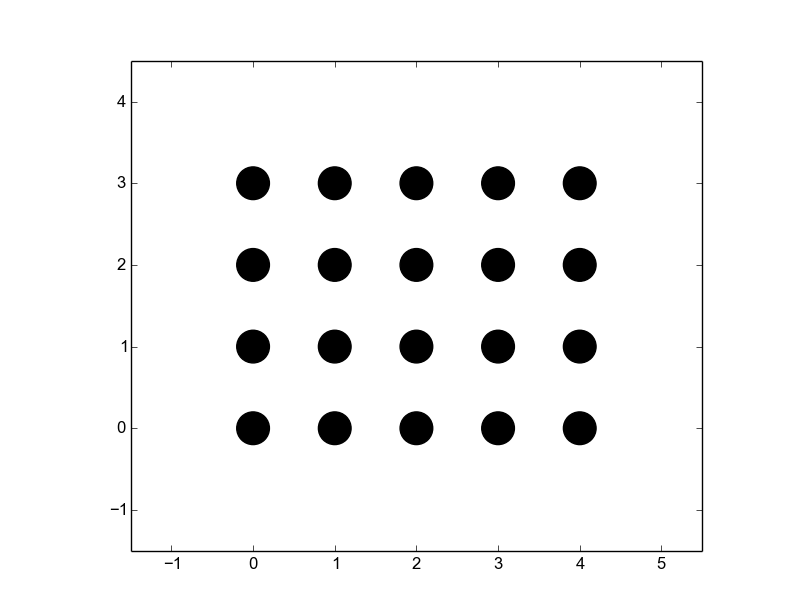
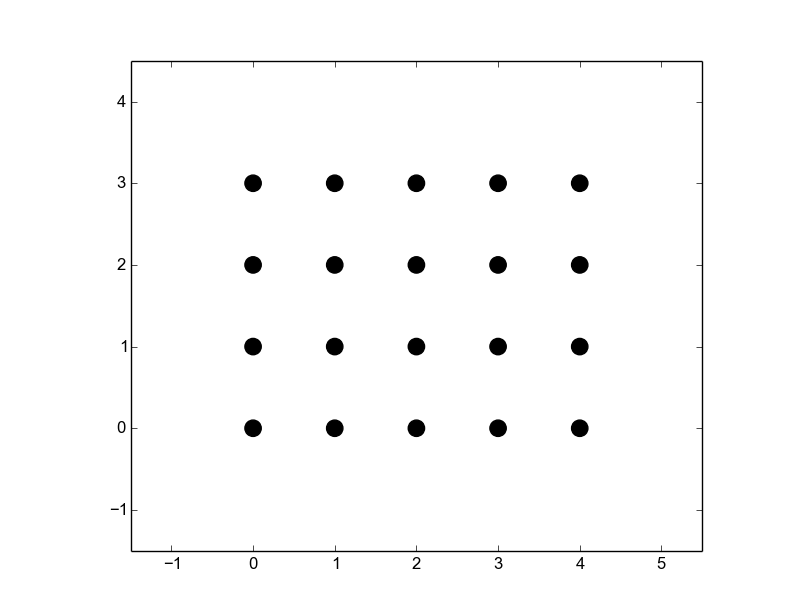
some more processing

diff --git a/src/calib_proc/calib_proc_node.cpp b/src/calib_proc/calib_proc_node.cpp
@@ -36,39 +36,55 @@ void CalibProcNode::ConfigCb(CalibProcDynConfig &config, int level) {
   if (!(config.thresh_window % 2)) {
     config.thresh_window += 1;
   }
+  if (config.min_area > config.max_area) {
+    config.max_area = config.min_area + 1;
+  }
   config_ = config;
 }
 
 void CalibProcNode::ImageCb(const sensor_msgs::ImageConstPtr &image_msg) {
   cv::Mat image = cv_bridge::toCvCopy(image_msg, image_msg->encoding)->image;
-  //  cv::imshow("image", image);
 
   cv::Mat inverted;
   cv::bitwise_not(image, inverted);
-  //  cv::imshow("inverted", inverted);
 
-  /*
+  // Threshold
   cv::Mat thresh;
   cv::adaptiveThreshold(image, thresh, 255, config_.thresh_type,
                         cv::THRESH_BINARY, config_.thresh_window, 0);
   cv::imshow("thresh", thresh);
-  */
 
-  /*
-   std::vector<std::vector<cv::Point>> contours;
-   cv::findContours(raw, contours, CV_RETR_EXTERNAL, CV_CHAIN_APPROX_NONE);
+  // Gaussian blur
+  cv::Mat gauss;
+  cv::GaussianBlur(thresh, gauss, cv::Size(), config_.sigma, config_.sigma,
+                   cv::BORDER_DEFAULT);
+  cv::imshow("gauss", gauss);
 
-   cv::Mat contour_image;
-   cv::cvtColor(raw, contour_image, CV_GRAY2BGR);
-   for (size_t i = 0; i < contours.size(); ++i) {
-     cv::drawContours(contour_image, contours, i, cv::Scalar(255, 0, 0), 2, 8);
-   }
-   cv::imshow("contour", contour_image);
-   */
+  // Erosion
+  cv::Mat eroded;
+  int erosion_size = config_.erosion_size;
+  cv::Mat element = cv::getStructuringElement(
+      cv::MORPH_RECT, cv::Size(2 * erosion_size + 1, 2 * erosion_size + 1),
+      cv::Point(erosion_size, erosion_size));
+  cv::erode(thresh, eroded, element);
+  cv::imshow("erosion", eroded);
 
-  // Detect circles grid
+  // Contour
+  std::vector<std::vector<cv::Point>> contours;
+  cv::findContours(eroded, contours, CV_RETR_EXTERNAL, CV_CHAIN_APPROX_NONE);
+
+  cv::Mat ctr_image;
+  cv::cvtColor(image, ctr_image, CV_GRAY2BGR);
+  for (size_t i = 0; i < contours.size(); ++i) {
+    double area = cv::contourArea(contours[i]);
+    if (area > config_.min_area && area < config_.max_area) {
+      cv::drawContours(ctr_image, contours, i, cv::Scalar(255, 0, 0), 2, 8);
+    }
+  }
+  cv::imshow("contour", ctr_image);
+
   cv::Mat display;
-  DetectAndDrawCriclesGrid(inverted, cv::Size(4, 5), display);
+  DetectAndDrawCriclesGrid(inverted, cv::Size(5, 4), display);
 
   cv::Mat calib(inverted);
 

diff --git a/calib/draw_circles_grid.py b/calib/draw_circles_grid.py
@@ -5,7 +5,7 @@ import matplotlib.pyplot as plt
 fig = plt.gcf()
 n_cols = 5
 n_rows = 4
-r = 0.2
+r = 0.1
 for x in range(0, n_cols):
     for y in range(0, n_rows):
         circle = plt.Circle((x, y), r, color='k')
